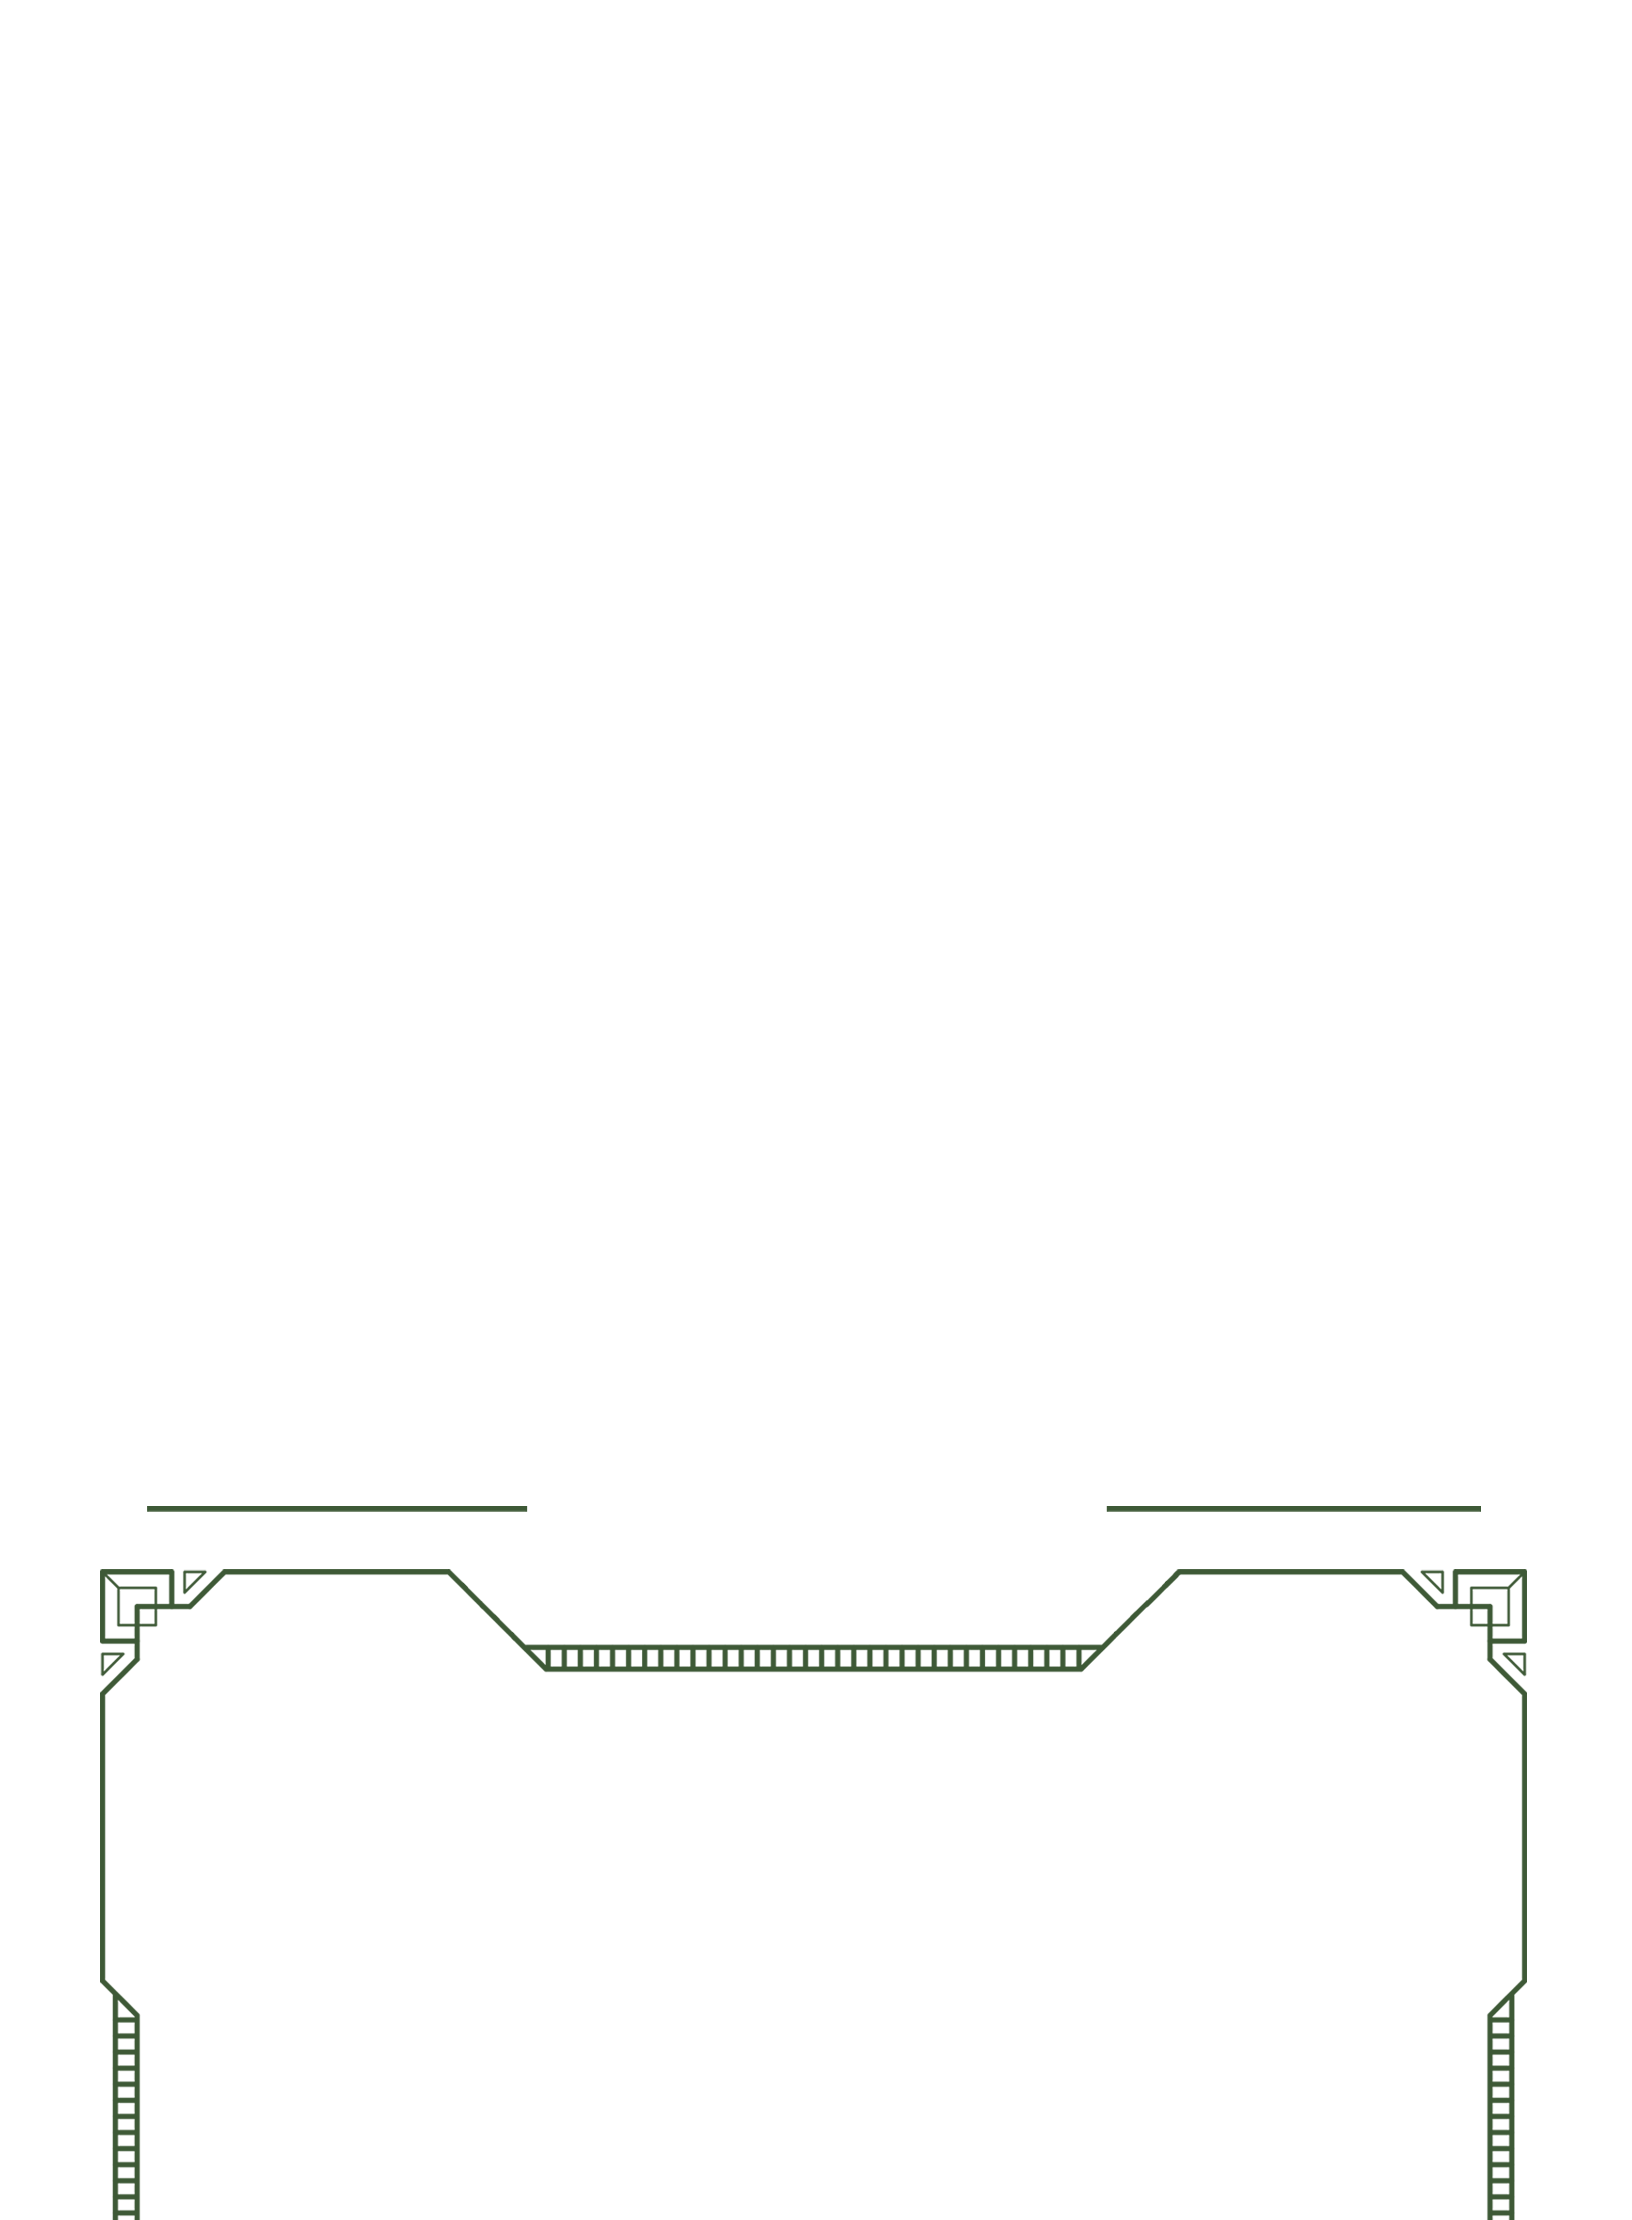
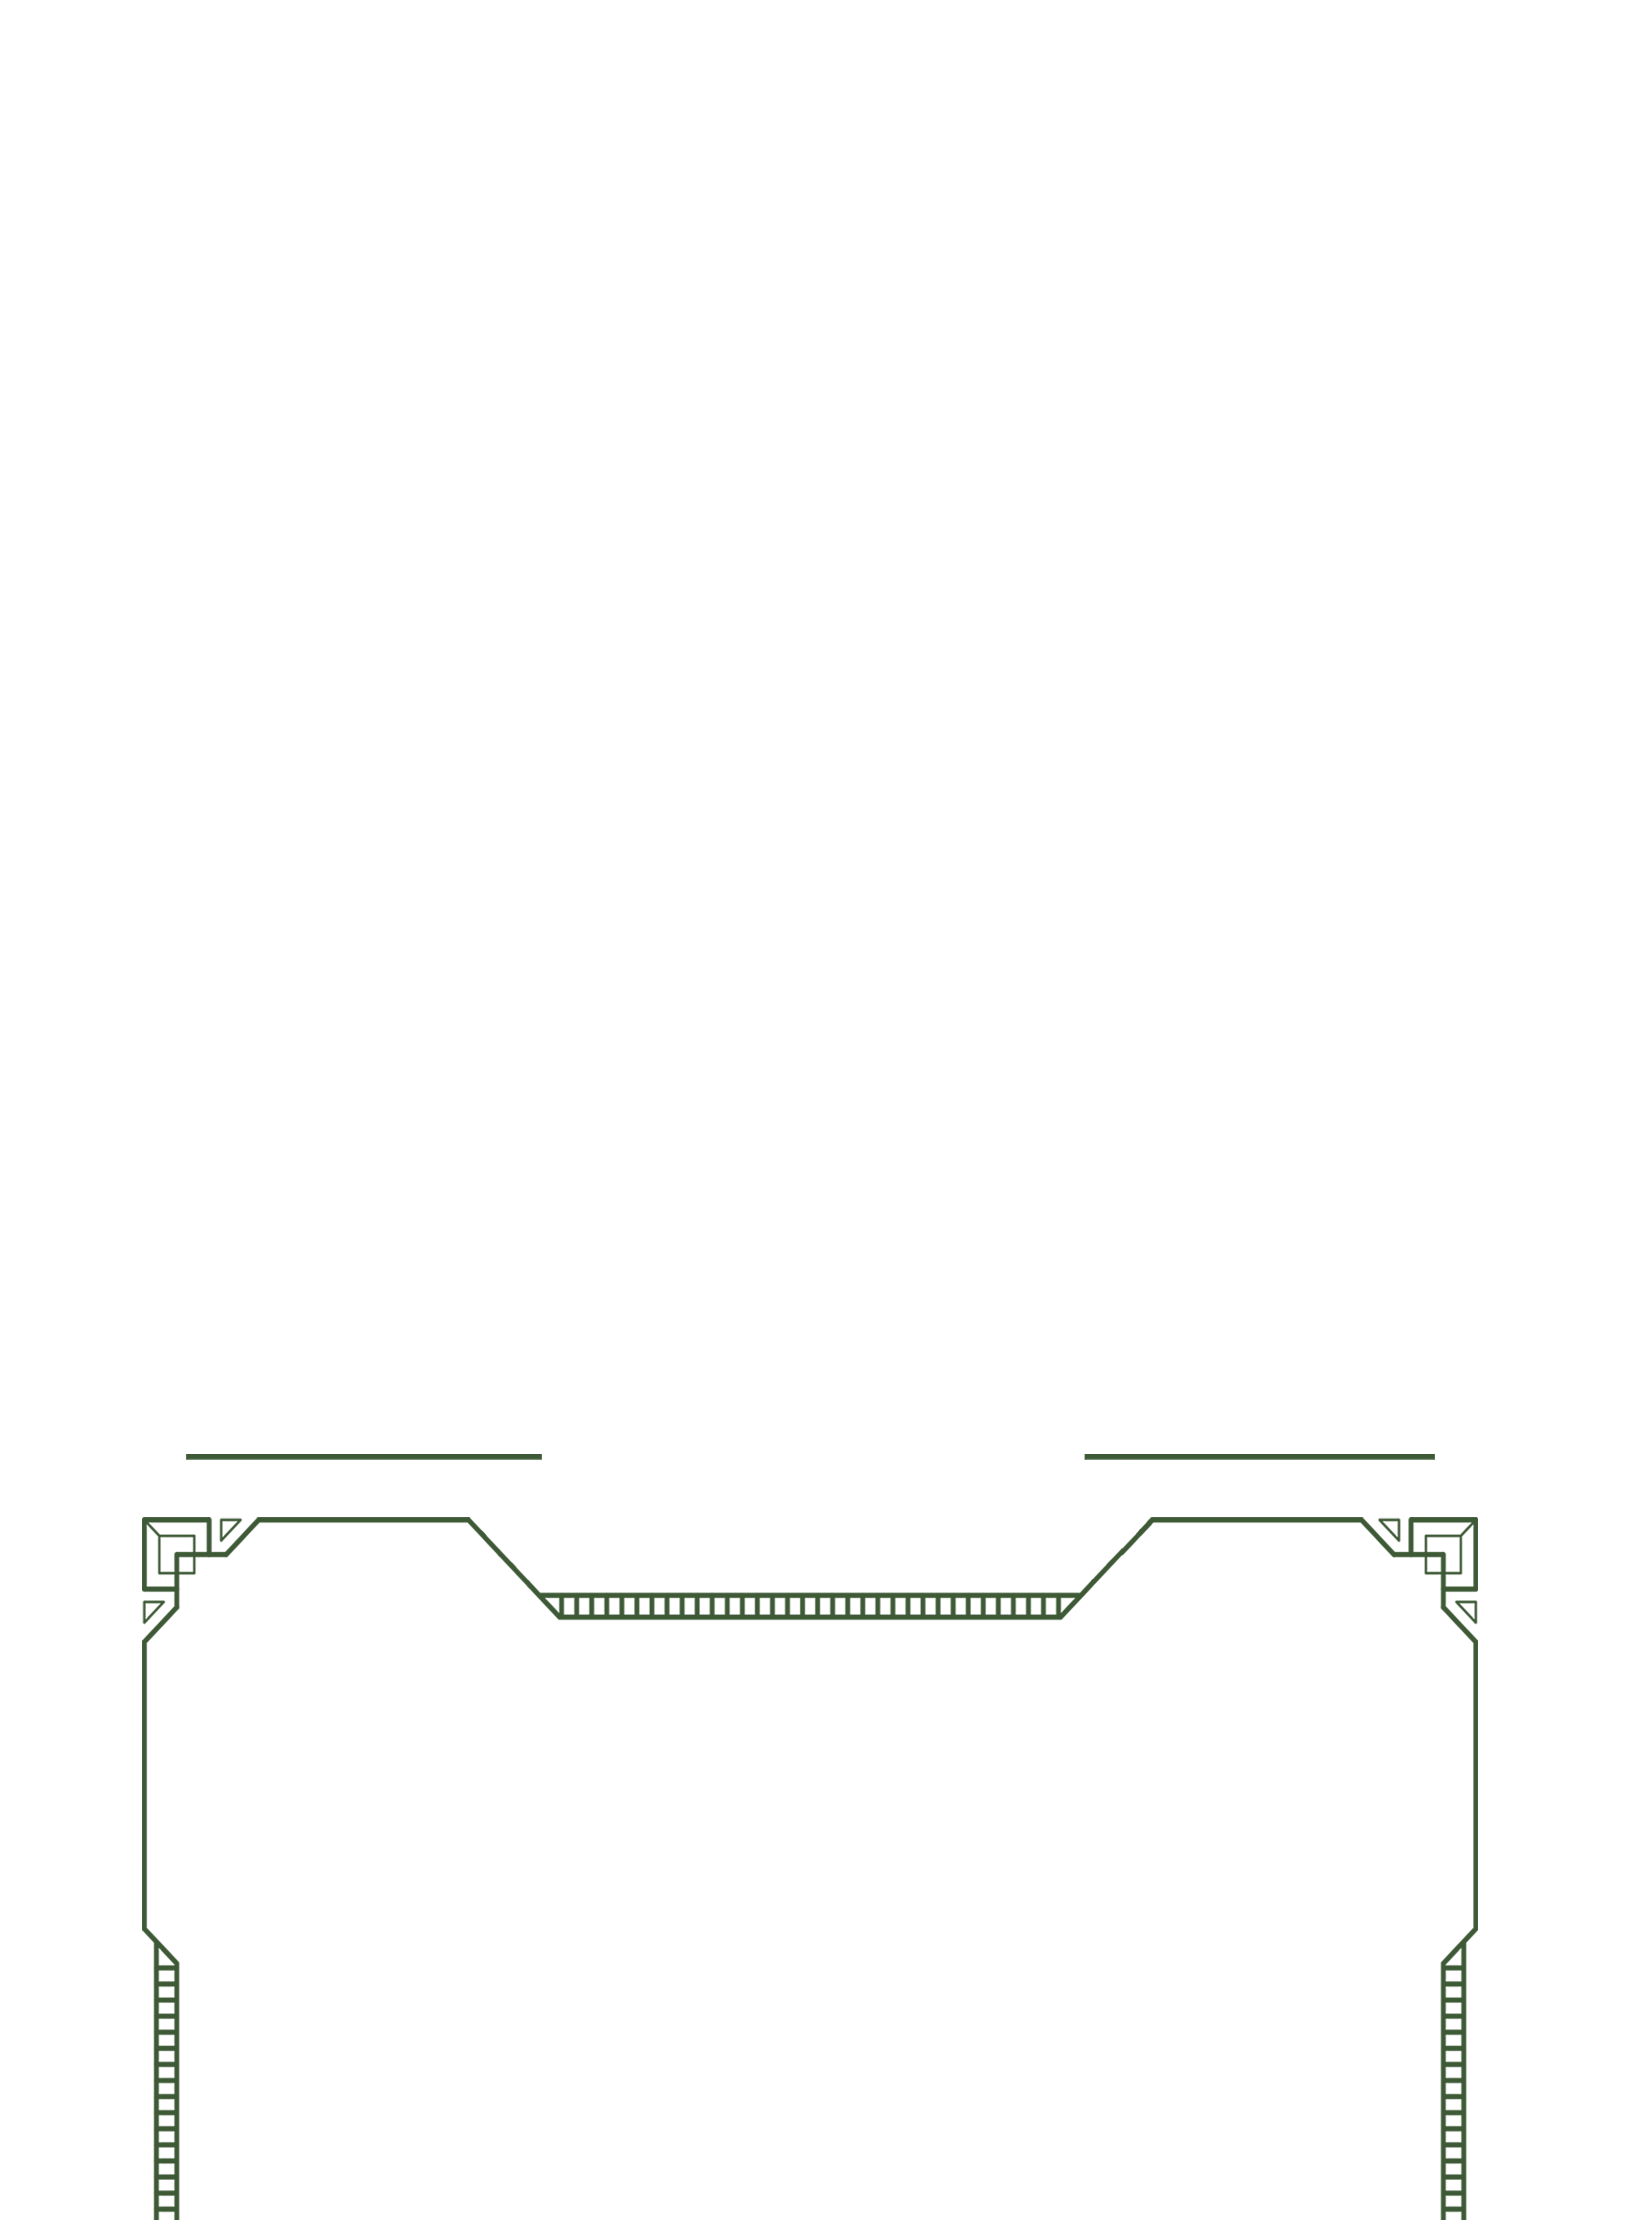
Fixed framing and bleed edge of circus frames and made imported cards automatically fill secondary text boxes

Changed region(s): [[0.0625, 0.6527, 0.9375, 1.0]]

diff --git a/js/frames/packCircusStandard.js b/js/frames/packCircusStandard.js
@@ -1,7 +1,7 @@
 //Create objects for common properties across available frames
-var masks = [];
+var masks = [];	
 var bounds = {x:-0.044, y:-1/35, width:1.088, height:37/35};
-var ptBounds = {x:1507/2010, y:2630/2814, width:364/2010, height:180/2814};
+var ptBounds = {x:1563/2010, y:2514/2814, width:264/2010, height:180/2814};
 //defines available frames
 availableFrames = [
 	{name:'Title', src:'/img/frames/custom/circus/standard/rules.png', bounds:bounds},
@@ -24,7 +24,7 @@ document.querySelector('#loadFrameVersion').onclick = async function() {
 	//resets things so that every frame doesn't have to
 	await resetCardIrregularities();
 	//sets card version
-	card.version = 'm15ExtendedArtShort';
+	card.version = 'circusStandard';
 	card.hideBottomInfoBorder = false;
 	//art bounds
 	card.artBounds = {x:0, y:0, width:1, height:0.6415};
@@ -38,22 +38,21 @@ document.querySelector('#loadFrameVersion').onclick = async function() {
 	resetWatermark();
 	loadScript('/js/frames/manaSymbolsBreakingNews.js');
 	//text
-	loadTextOptions({
-		mana: {name:'Mana Cost', text:'',x:-0.011, y:0.648, width:0.9292, height:71/2100, oneLine:true, size:0.038, align:'right', shadowX:-0.001, shadowY:0.0029, manaCost:true, manaPrefix:'breakingNews', manaSpacing:0},
-		title: {name:'Title', text:'', x:0.33, y:0.65, width:0.35, height:0.12, oneLine:false, font:'Beardsons', size:4.5, align:'center', color:'#4f3821', shadowX:-0.001, shadowY:0.0005, lineSpacing: 0.4},
-		type: {name:'Type Left', text:'', x:0.08, y:0.70, width:0.22, height:0.113, oneLine:false, font:'CarnevaleeFreakshow', size:0.032, color:'#4f3821', align:'center', shadowX:-0.001, shadowY:0.0002},
-		type2: {name:'Type Right', text:'SUBTYPE HERE!', x:0.71, y:0.70, width:0.22, height:0.113, oneLine:false, font:'CarnevaleeFreakshow', size:0.032, color:'#4f3821', align:'center', shadowX:-0.001, shadowY:0.0002},
-		rules: {name:'Rules Text', text:'', x:0.063, y:0.785, width:0.88, height:0.195, size:0.034, font:'decour'},
-		pt: {name:'Power/Toughness', text:'', x:0.775, y:0.944, width:0.15, height:0.06, size:0.032, font:'Beardsons', oneLine:true, align:'center', kerning: 0.018}
+	loadTextOptions({	
+		mana: {name:'Mana Cost', text:'',x:-0.011, y:0.625, width:0.9292, height:71/2100, oneLine:true, size:0.038, align:'right', shadowX:-0.001, shadowY:0.0029, manaCost:true, manaPrefix:'breakingNews', manaSpacing:0},
+		title: {name:'Title', text:'', x:0.33, y:0.620, width:0.35, height:0.12, oneLine:false, font:'Beardsons', size:4.5, align:'center', color:'#4f3821', shadowX:-0.001, shadowY:0.0005, lineSpacing: 0.4},
+		type: {name:'Type Left', text:'', x:0.1, y:0.675, width:0.22, height:0.113, oneLine:false, font:'CarnevaleeFreakshow', size:0.032, color:'#4f3821', align:'center', shadowX:-0.001, shadowY:0.0002},
+		subtype: {name:'Type Right', text:'', x:0.69, y:0.675, width:0.22, height:0.113, oneLine:false, font:'CarnevaleeFreakshow', size:0.032, color:'#4f3821', align:'center', shadowX:-0.001, shadowY:0.0002},
+		rules: {name:'Rules Text', text:'', x:0.081, y:0.769, width:0.85, height:0.185, size:0.034, font:'decour'},
+		pt: {name:'Power/Toughness', text:'', x:0.775, y:0.900, width:0.15, height:0.06, size:0.032, font:'Beardsons', oneLine:true, align:'center', kerning: 0.014}
 	});
 		//bottom info
 	await loadBottomInfo({
-		topLeft: {text:'{fontbelerenbsc}{fontsize' + scaleHeight(0.001) + '}{upinline' + scaleHeight(0.0005) + '}\uFFEE{savex2} {elemidinfo-artist}', x:0.07, y:0.67, width:0.98, height:0.0177, oneLine:true, font:'decour', size:0.0177, color:'#4f3821'},
+		topLeft: {text:'{fontbelerenbsc}{fontsize' + scaleHeight(0.001) + '}{upinline' + scaleHeight(0.0005) + '}\uFFEE{savex2} {elemidinfo-artist}', x:0.07, y:0.638, width:0.98, height:0.0177, oneLine:true, font:'decour', size:0.0177, color:'#4f3821'},
 		bottomLeft: {text:'', x:0.03, y:0.9767, width:0.94, height:0.0177, oneLine:true, font:'decour', size:0.0177, color:'white', outlineWidth:0.003},
 		topRight: {text:'*PROXY - NOT FOR SALE*', x:0.01, y:0.9572, width:0.98, height:0.0177, oneLine:true, font:'decour', size:0.0177, color:'white', outlineWidth:0.003, align:'right'},
 		wizards: {name:'wizards', text:'', x:0.03, y:0.9767, width:0.94, height:0.0177, oneLine:true, font:'decour', size:0.0177, color:'white', align:'right', outlineWidth:0.003},
 	});
-	setTimeout(bottomInfoEdited, 250);
 }
 //loads available frames
 loadFramePack();

diff --git a/js/frames/packCircusLegend.js b/js/frames/packCircusLegend.js
@@ -24,7 +24,7 @@ document.querySelector('#loadFrameVersion').onclick = async function() {
 	//resets things so that every frame doesn't have to
 	await resetCardIrregularities();
 	//sets card version
-	card.version = 'm15ExtendedArtShort';
+	card.version = 'circusLegend';
 	card.hideBottomInfoBorder = true;
 	//art bounds
 	card.artBounds = {x:0, y:0, width:1, height:0.7};
@@ -40,9 +40,9 @@ document.querySelector('#loadFrameVersion').onclick = async function() {
 	//text
 	loadTextOptions({	
 		mana: {name:'Mana Cost', text:'',x:-0.011, y:0.712, width:0.9292, height:71/2100, oneLine:true, size:0.033, align:'right', shadowX:-0.001, shadowY:0.0029, manaCost:true, manaPrefix:'breakingNews', manaSpacing:0, rotation: -6},
-		title: {name:'Title', text:'', x:0.24, y:0.135, width:0.8292, height:0.0543, oneLine:true, font:'Beardsons', size:0.07, rotation: -15},
-		smalltitle: {name:'Sub Title', text:'Subtitle', x:0.455, y:0.09, width:0.4, height:0.0543, oneLine:true, font:'Beardsons', size:0.035, rotation: -15},
-		type: {name:'Type', text:'', x:0.042, y:0.69, width:0.8292, height:0.0543, oneLine:true, font:'CarnevaleeFreakshow', size:0.037, rotation: -5.0},
+		title: {name:'Title', text:'', x:0.20, y:0.140, width:0.4292, height:0.0543, oneLine:true, font:'Beardsons', size:0.07, rotation: -15, align:'center'},
+		subtitle: {name:'Sub Title', x:0.655, y:0.019, width:0.2, height:0.113, oneLine:false, font:'Beardsons', size:0.035, rotation: -15},
+		type: {name:'Type', text:'', x:0.042, y:0.69, width:0.71, height:0.0543, oneLine:true, font:'CarnevaleeFreakshow', size:0.037, rotation: -5.0},
 		rules: {name:'Rules Text', text:'', x:0.0355, y:0.762, width:0.85, height:0.220, size:0.05, font:'decour', rotation: -5.0},
 		pt: {name:'Power/Toughness', text:'', x:0.815, y:0.917, width:0.15, height:0.06, size:0.033, font:'Beardsons', oneLine:true, align:'center', rotation: -5.3, kerning: 0.022}
 	});

diff --git a/js/creator-23.js b/js/creator-23.js
@@ -4821,7 +4821,7 @@ function changeCardIndex() {
 	if (name.startsWith('A-')) { name = name.replace('A-', '{alchemy}'); }
 
 	if (card.text.title) {
-		if (card.version == 'wanted') {
+		if (card.version == 'wanted' || card.version == 'circusLegend') {
 			var subtitle = '';
 			var index = name.indexOf(', ');
 
@@ -4839,7 +4839,22 @@ function changeCardIndex() {
 
 	if (card.text.nickname) {card.text.nickname.text = cardToImport.flavor_name || '';}
 	if (card.text.mana) {card.text.mana.text = cardToImport.mana_cost || '';}
-	if (card.text.type) {card.text.type.text = langFontCode + cardToImport.type_line || '';}
+	
+	if (card.text.type) {
+		if(card.version == 'circusStandard') {
+			var subtype = '';
+			var index = cardToImport.type_line.indexOf(' — ');
+
+			if (index > 0) {
+			  card.text.subtype.text = langFontCode + curlyQuotes(cardToImport.type_line.substring(index+2));
+			  card.text.type.text = langFontCode + curlyQuotes(cardToImport.type_line.substring(0, index+1));
+			} else {
+				card.text.type.text = langFontCode + curlyQuotes(cardToImport.type_line);
+				card.text.subtype.text = '';
+			}	
+
+		} else {card.text.type.text = langFontCode + cardToImport.type_line || '';}
+}
 
 	var italicExemptions = ['Boast', 'Cycling', 'Visit', 'Prize', 'I', 'II', 'III', 'IV', 'I, II', 'II, III', 'III, IV', 'I, II, III', 'II, III, IV', 'I, II, III, IV', '• Khans', '• Dragons', '• Mirran', '• Phyrexian', 'Prototype', 'Companion', 'To solve', 'Solved'];
 	var rulesText = (cardToImport.oracle_text || '').replace(/(?:\((?:.*?)\)|[^"\n]+(?= — ))/g, function(a){

diff --git a/js/frames/groupCustom.js b/js/frames/groupCustom.js
@@ -71,5 +71,9 @@ loadFramePacks([
 	{name:'Magrao\'s Kaldheim', value:'CustomMagraoKaldheim'},
 	{name:'Pokemon', value:'Pokemon'},
 	{name:'Circuit', value:'Circuit'},
-	{name:'Borderless Class', value:'BorderlessClass'}
+	{name:'Borderless Class', value:'BorderlessClass'},
+	{name:'Circus Legend', value:'CircusLegend'},
+	{name:'Circus Standard', value:'CircusStandard'},
+	{name:'Borderless Eldraine Storybook', value:'StorybookWOEBorderless'},
+	{name:'Borderless Seethrough Eldraine Storybook', value:'StorybookWOEBorderlessSeeThrough'}
 ])
